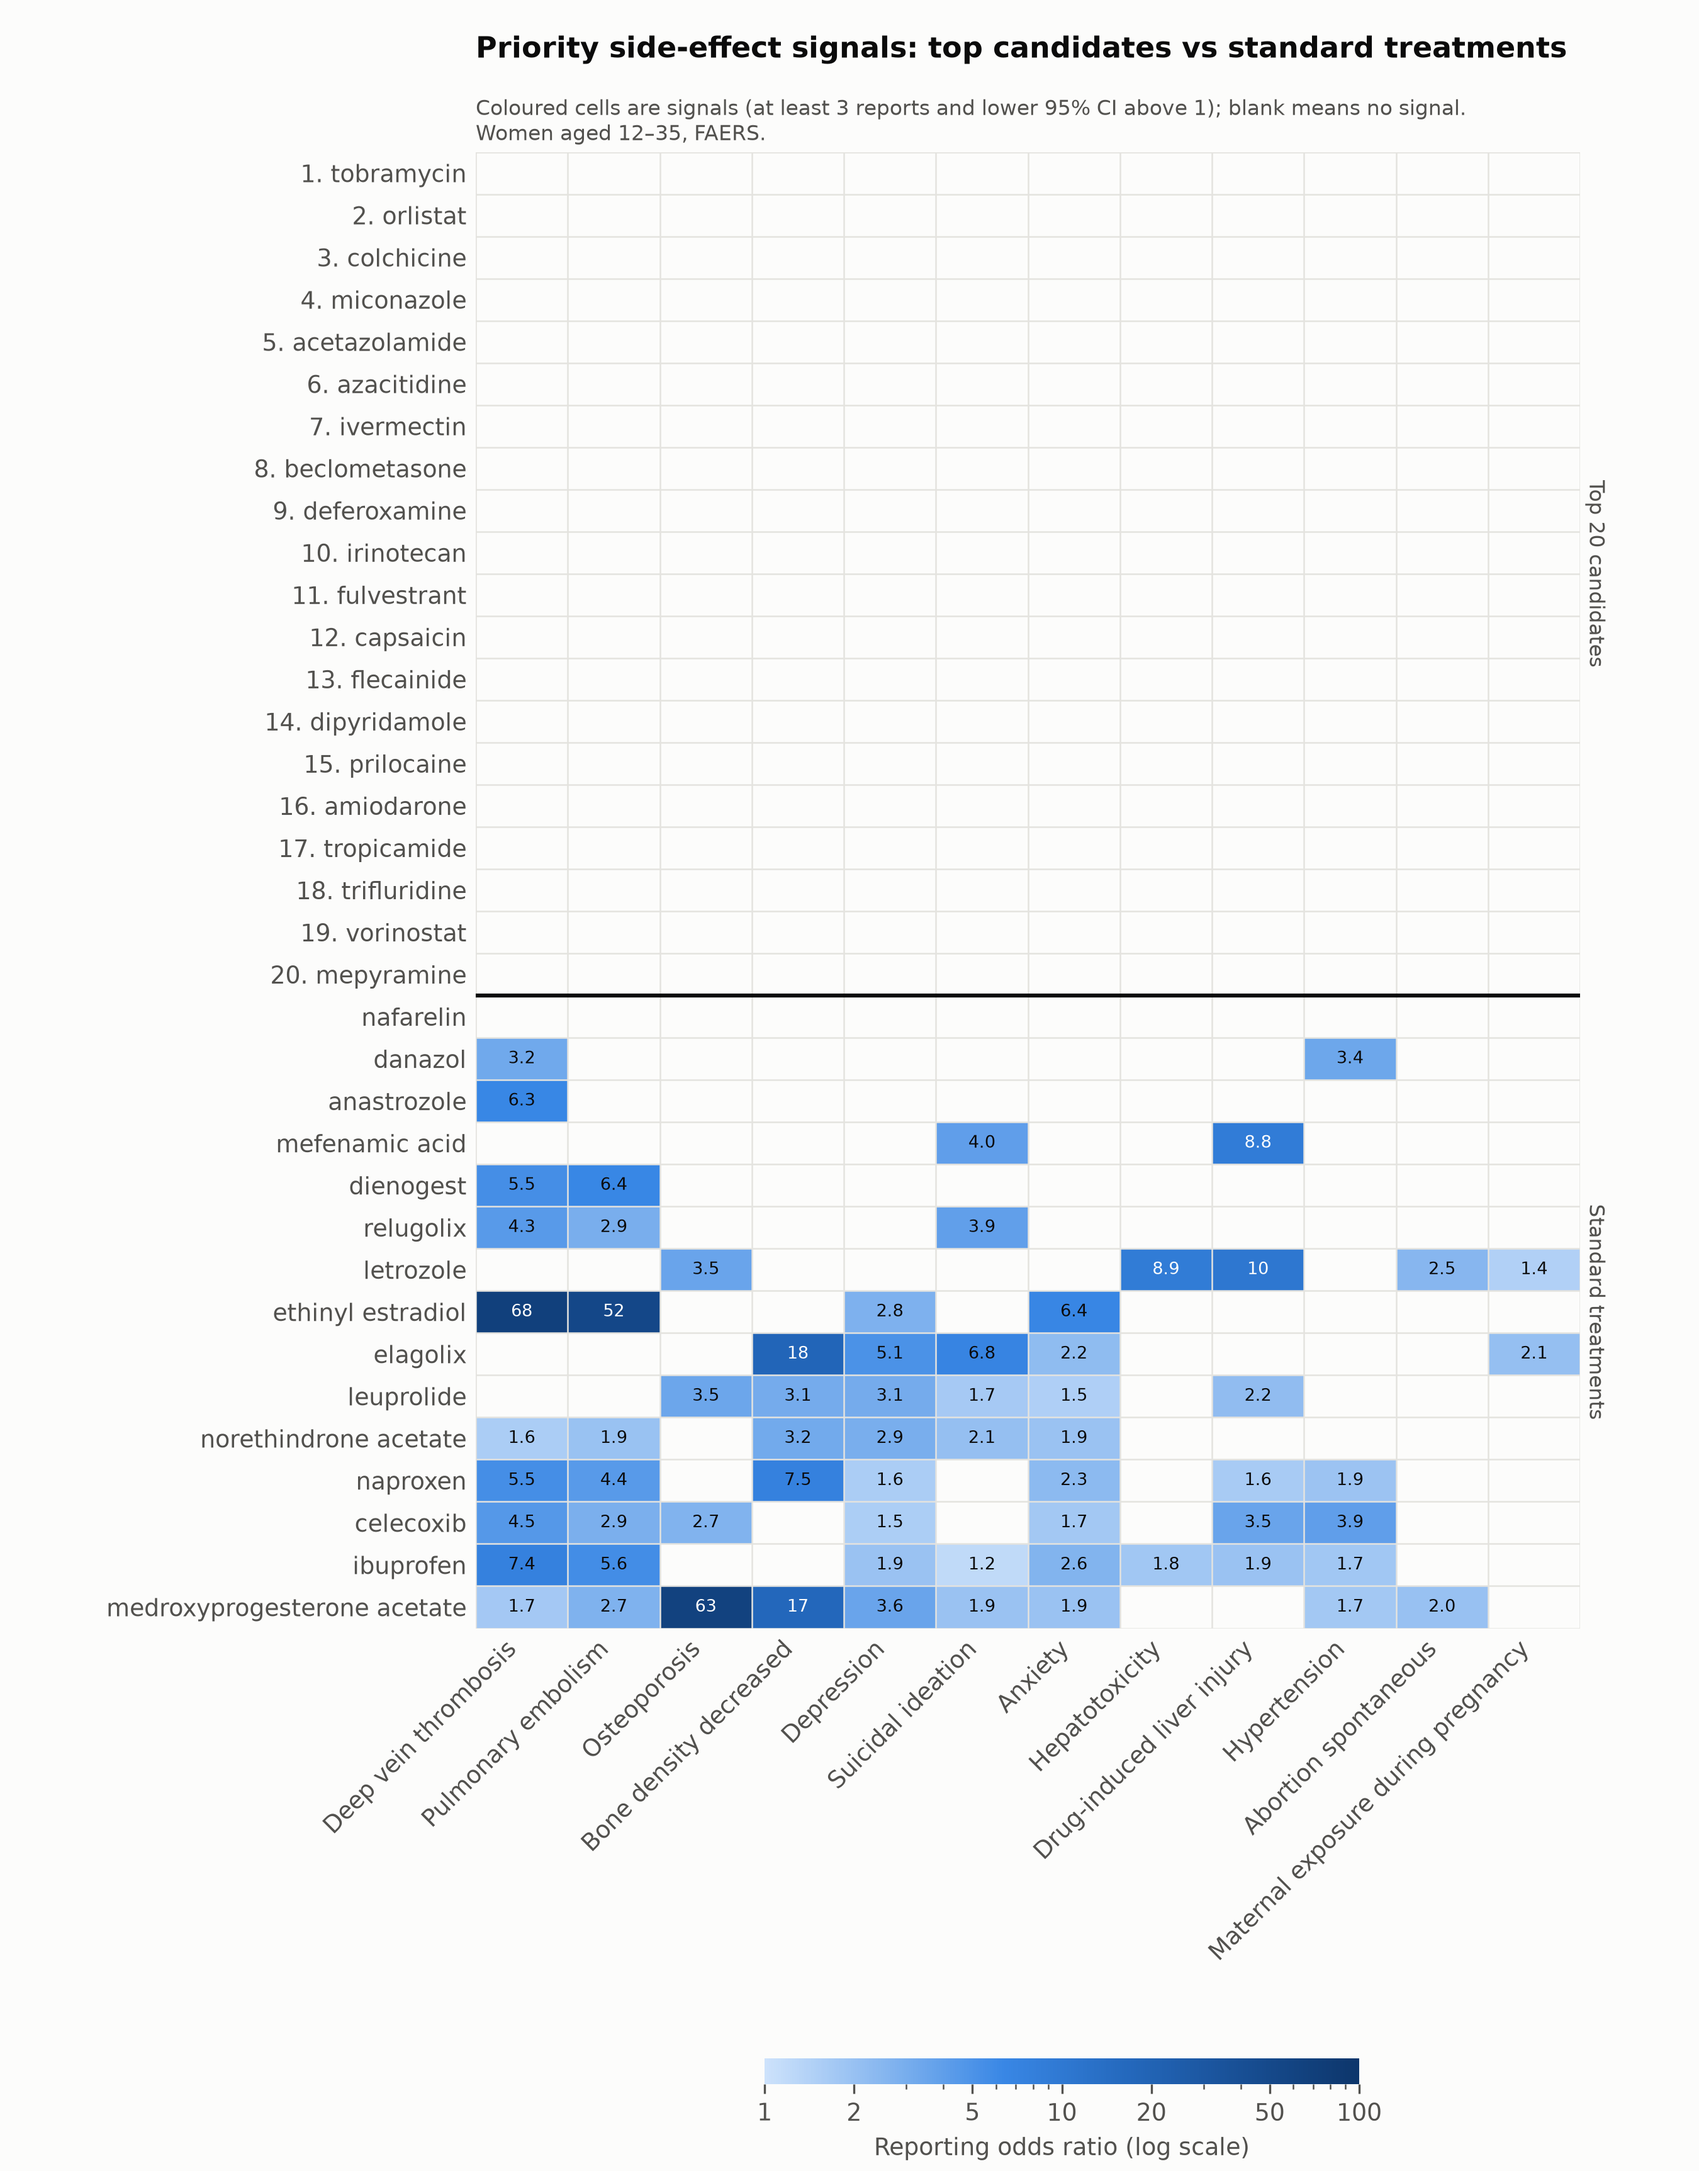
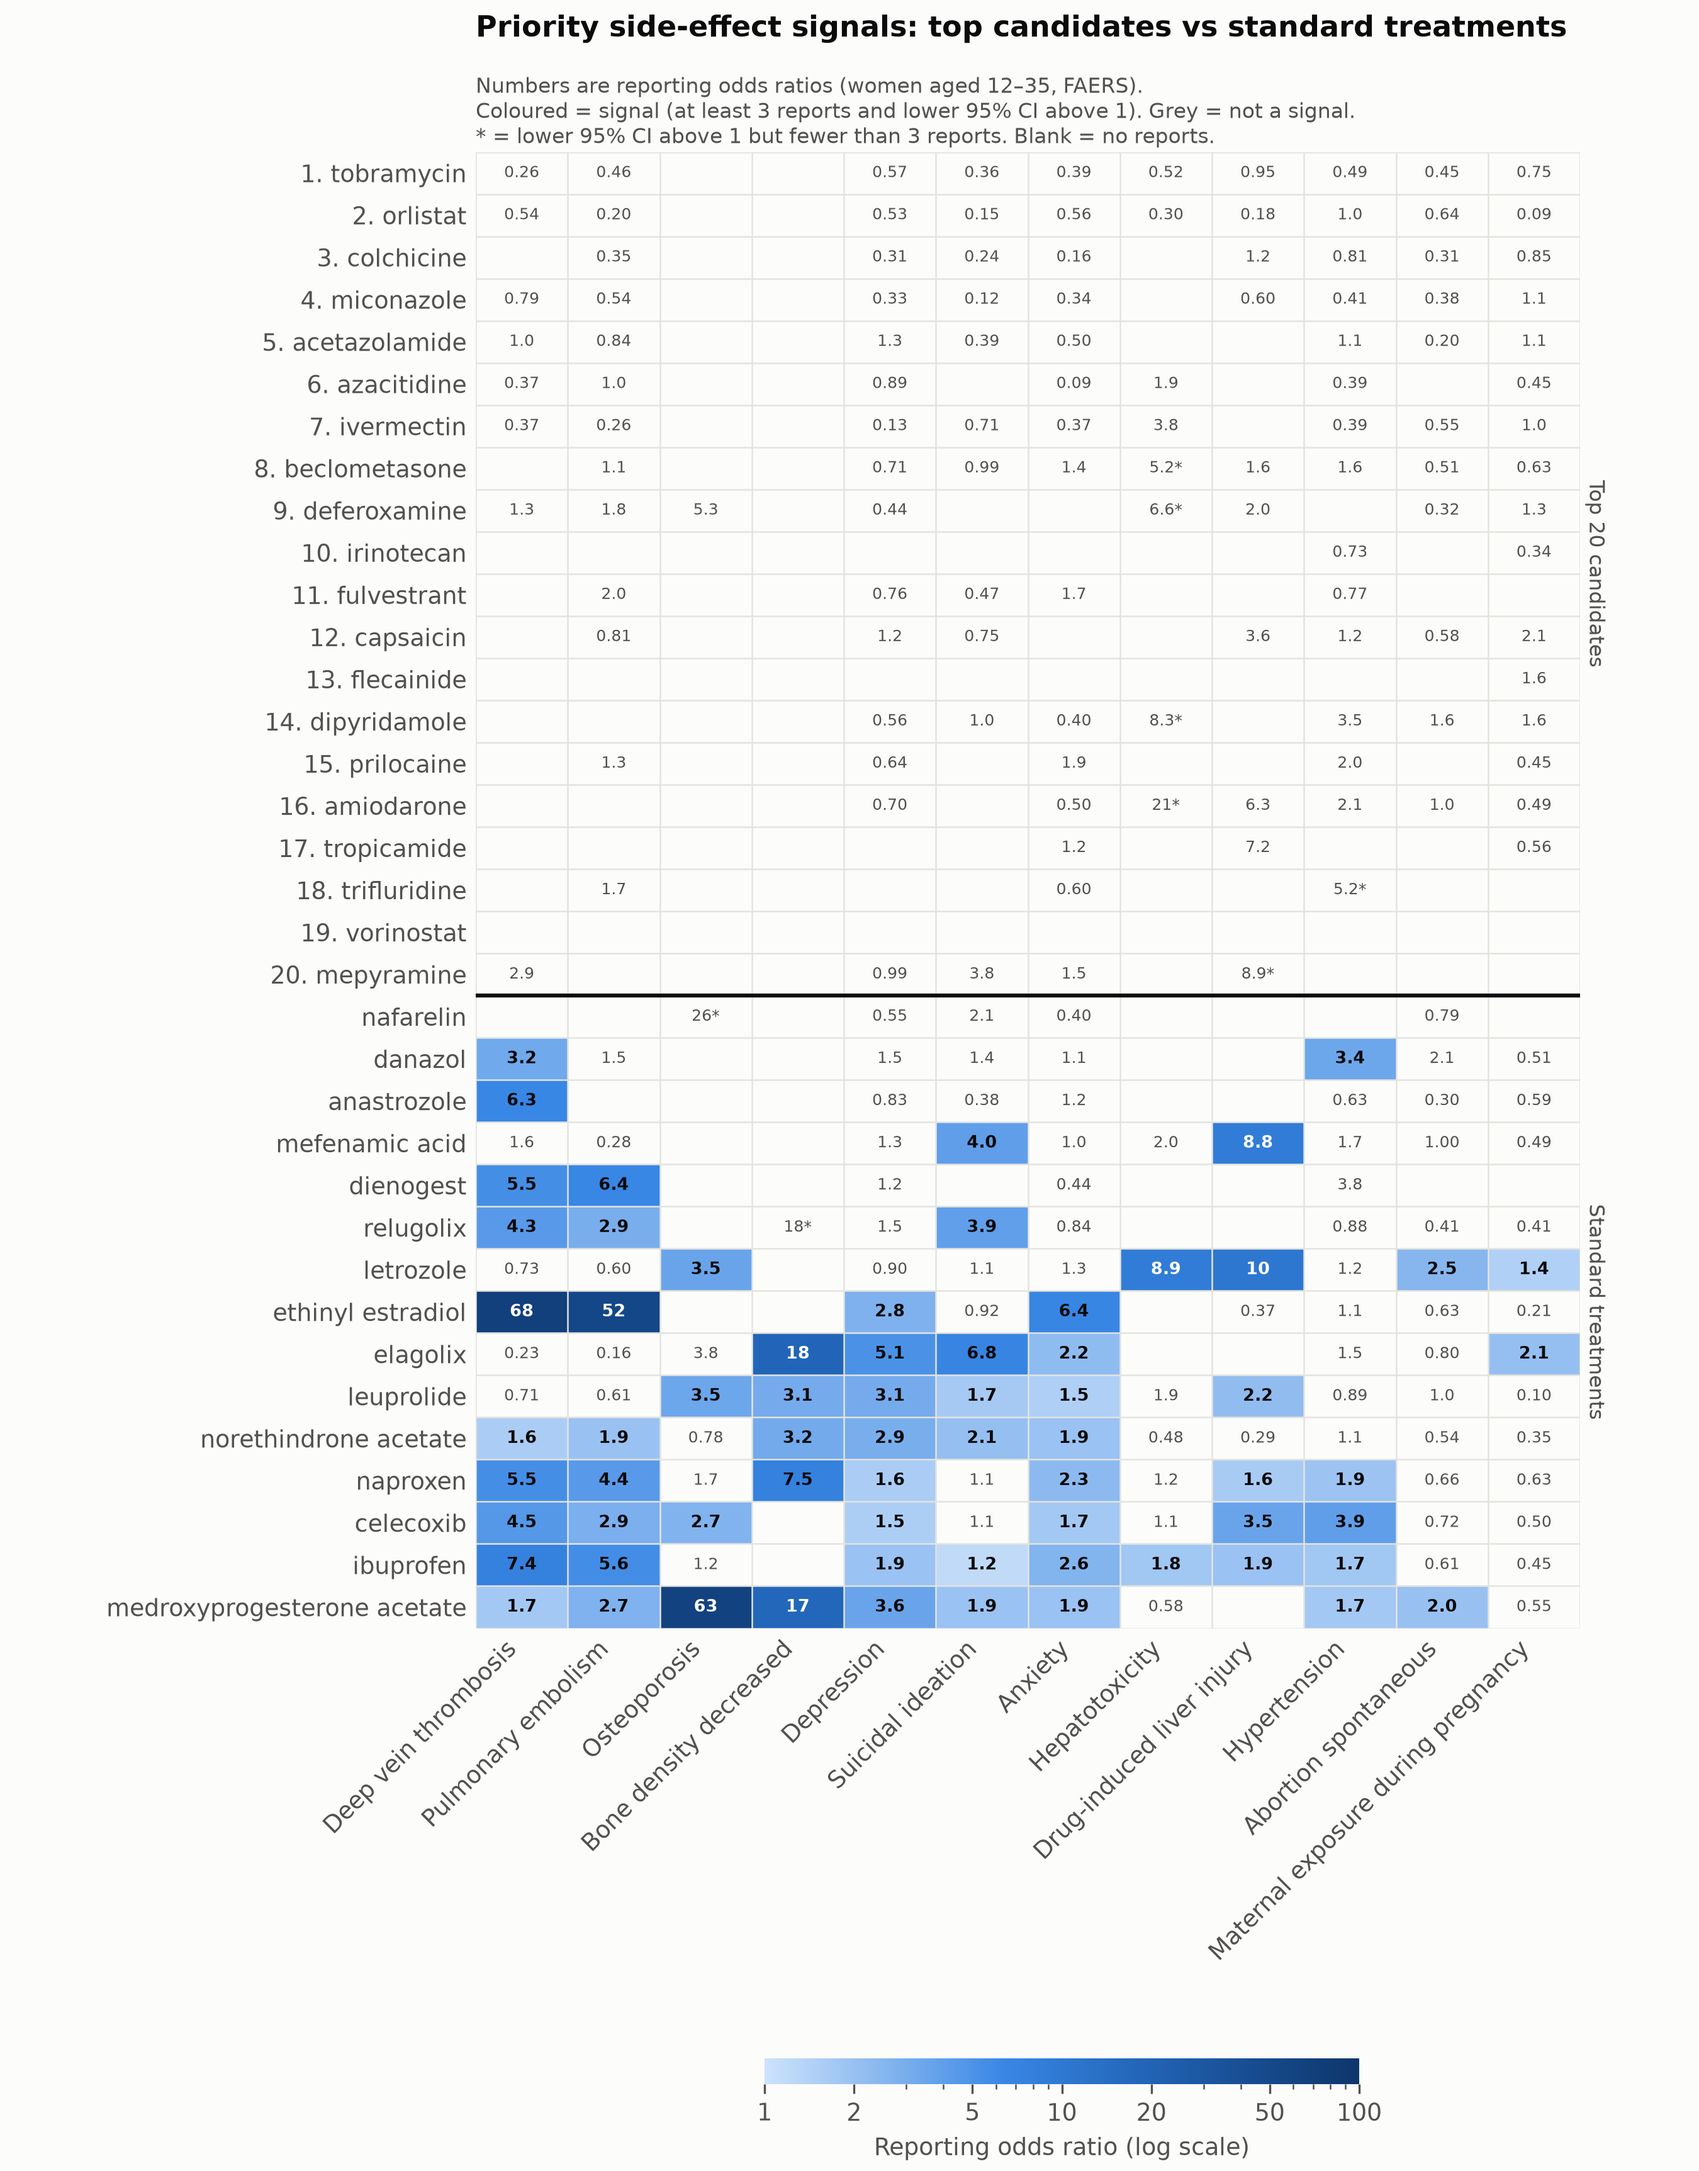
Show all RORs in heatmap

Changed region(s): [[0.28, 0.0, 0.9333, 0.093]]

diff --git a/scripts/figures.py b/scripts/figures.py
@@ -73,8 +73,16 @@ def heatmap(signals, ranked, priority):
     standard = enough[enough["group"] == "standard"]["drug_name"].tolist()
     rows = candidates + standard
 
-    hits = signals[signals["signal"] & signals["priority"] & signals["drug_name"].isin(rows)]
-    grid = hits.pivot(index="drug_name", columns="reaction", values="ror").reindex(index=rows, columns=priority)
+    cells = signals[signals["priority"] & signals["drug_name"].isin(rows)].set_index(["drug_name", "reaction"])
+
+    def table(column):
+        return cells[column].unstack().reindex(index=rows, columns=priority)
+
+    ror = table("ror")
+    is_signal = table("signal").fillna(False).astype(bool)
+    # Lower CI above 1 but fewer than 3 reports: not a signal, but worth seeing.
+    near_miss = (table("ci_lower") > 1) & (table("a") < 3) & ~is_signal
+    grid = ror.where(is_signal)  # only signals get a colour
 
     fig = plt.figure(figsize=(9, 11.5))
     ax = fig.add_axes([0.28, 0.25, 0.65, 0.68])
@@ -84,16 +92,28 @@ def heatmap(signals, ranked, priority):
     cmap.set_bad(SURFACE)
     image = ax.imshow(grid.values, cmap=cmap, norm=LogNorm(vmin=1, vmax=vmax), aspect="auto")
 
-    # Cell borders and ROR labels on signal cells
+    # Cell borders and an ROR label in every cell that has one.
+    # Signals: dark text on the coloured fill. Not signals: grey text, no fill.
     ax.set_xticks(np.arange(-0.5, len(priority)), minor=True)
     ax.set_yticks(np.arange(-0.5, len(rows)), minor=True)
     ax.grid(which="minor", color=GRID, linewidth=0.6)
     ax.tick_params(which="minor", length=0)
-    for (i, j), value in np.ndenumerate(grid.values):
-        if not np.isnan(value):
+
+    def label(value):
+        if value < 1:
+            return f"{value:.2f}"
+        return f"{value:.1f}" if value < 10 else f"{value:.0f}"
+
+    for (i, j), value in np.ndenumerate(ror.values):
+        if np.isnan(value):
+            continue
+        if is_signal.iat[i, j]:
             dark = np.log(value) / np.log(vmax) > 0.45
-            ax.text(j, i, f"{value:.1f}" if value < 10 else f"{value:.0f}",
-                    ha="center", va="center", fontsize=6.5, color="white" if dark else TEXT)
+            ax.text(j, i, label(value), ha="center", va="center", fontsize=6.5,
+                    fontweight="bold", color="white" if dark else TEXT)
+        else:
+            text = label(value) + ("*" if near_miss.iat[i, j] else "")
+            ax.text(j, i, text, ha="center", va="center", fontsize=6, color=TEXT_SECONDARY)
 
     # Divider between candidates and standard drugs
     ax.axhline(len(candidates) - 0.5, color=TEXT, linewidth=1.5)
@@ -115,9 +135,10 @@ def heatmap(signals, ranked, priority):
     bar.set_label("Reporting odds ratio (log scale)", color=TEXT_SECONDARY)
     bar.outline.set_visible(False)
 
-    ax.set_title("Priority side-effect signals: top candidates vs standard treatments", pad=36)
-    ax.text(0, 1.008, "Coloured cells are signals (at least 3 reports and lower 95% CI above 1); "
-            "blank means no signal.\nWomen aged 12–35, FAERS.",
+    ax.set_title("Priority side-effect signals: top candidates vs standard treatments", pad=44)
+    ax.text(0, 1.006, "Numbers are reporting odds ratios (women aged 12–35, FAERS).\n"
+            "Coloured = signal (at least 3 reports and lower 95% CI above 1). Grey = not a signal.\n"
+            "* = lower 95% CI above 1 but fewer than 3 reports. Blank = no reports.",
             transform=ax.transAxes, fontsize=8, color=TEXT_SECONDARY)
     fig.savefig(FIGURES / "heatmap_priority_signals.png", dpi=DPI)
     plt.close(fig)
